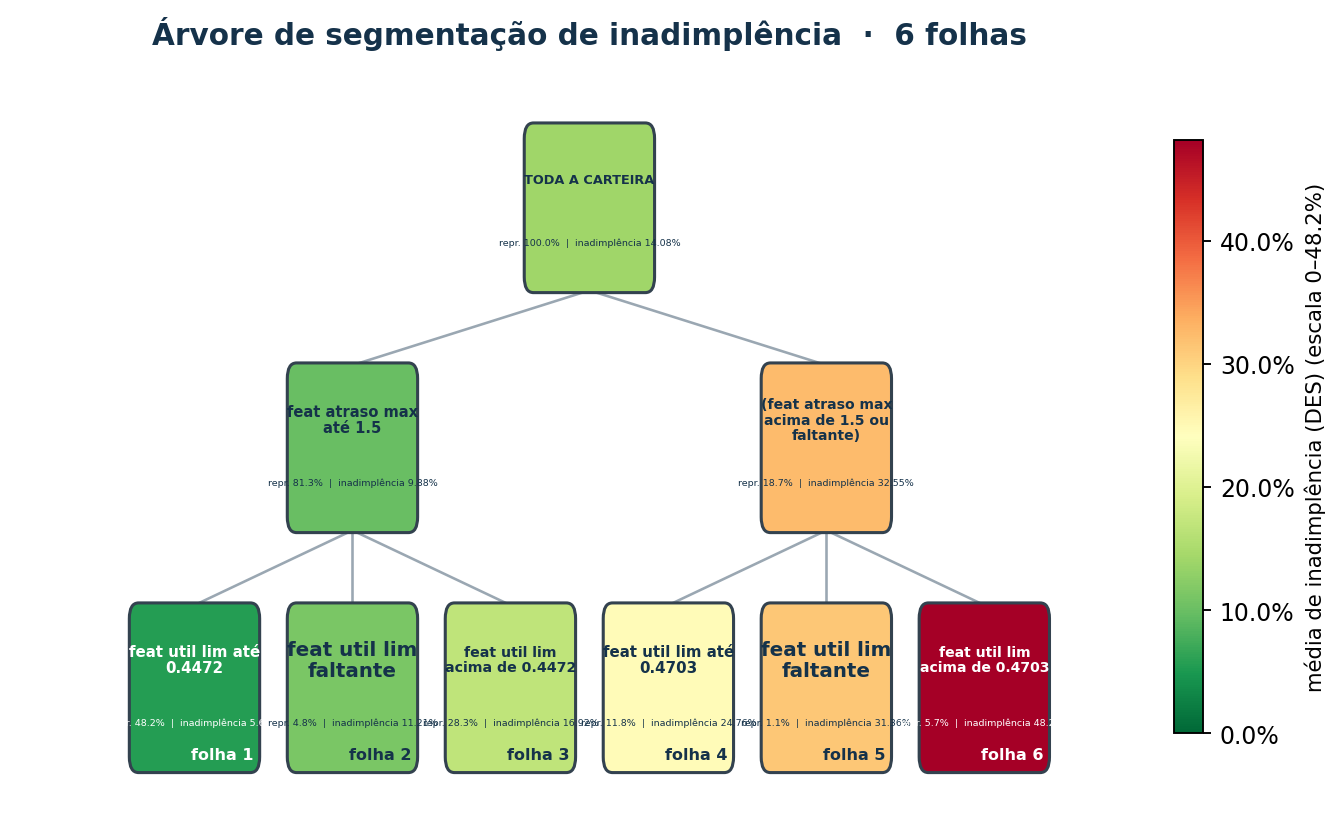
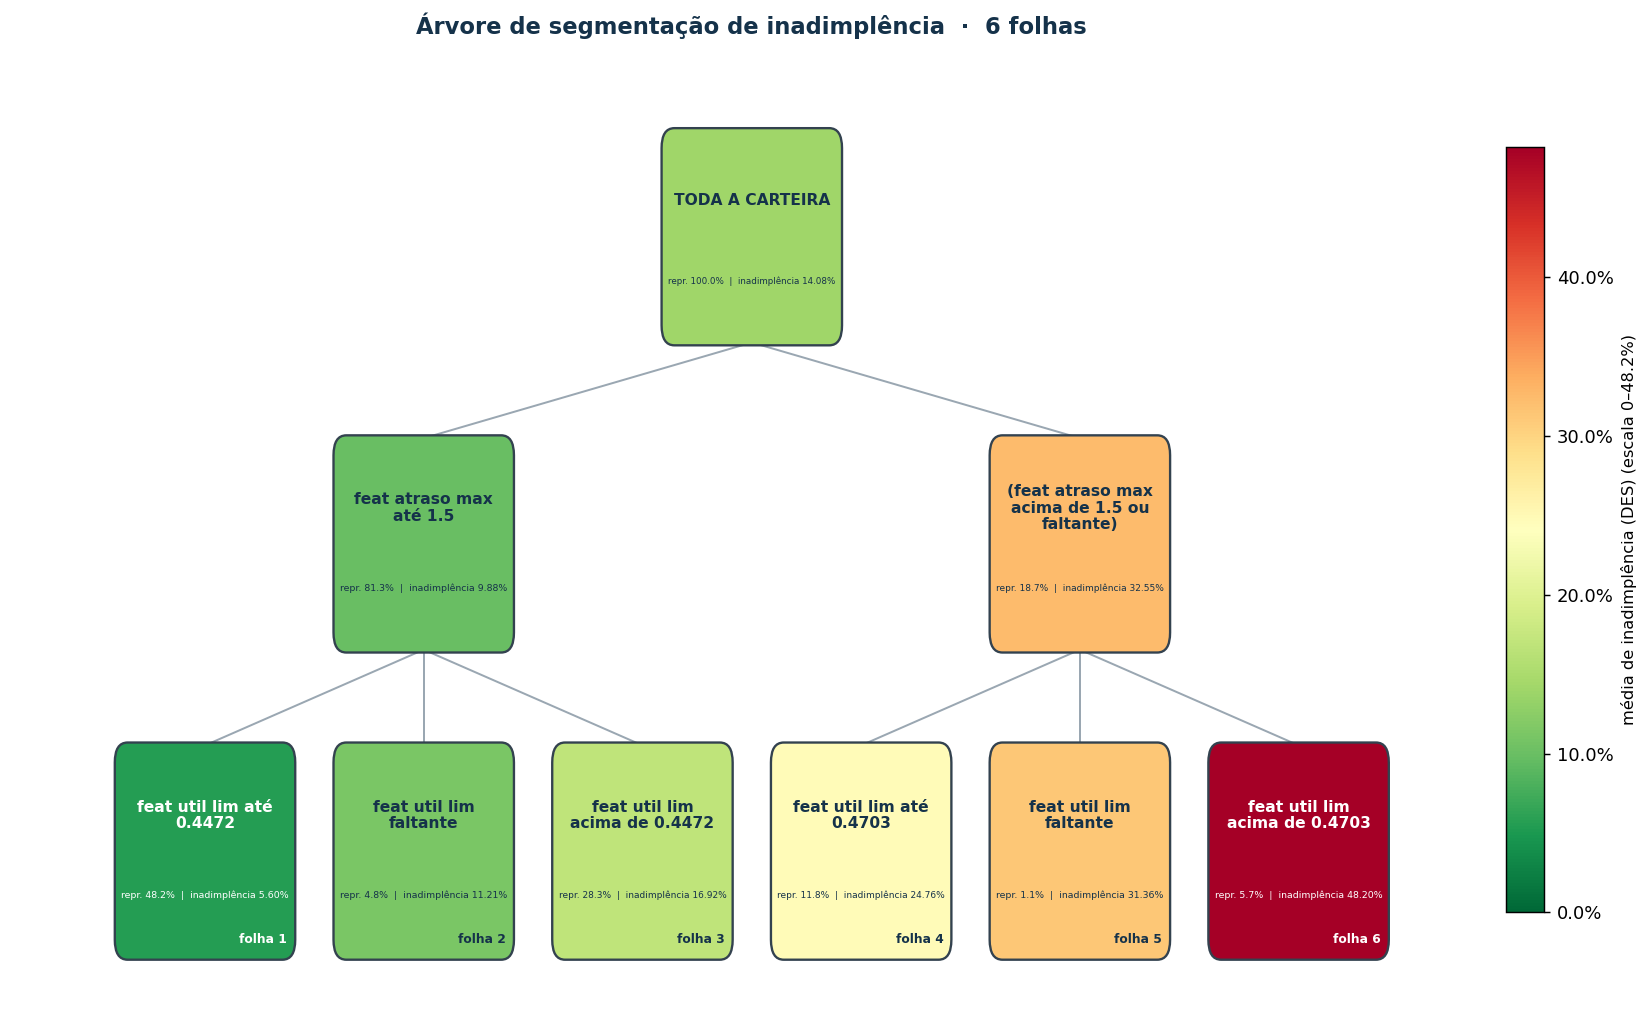
fix: texto da árvore dentro da caixa e beeswarm SHAP no Ramo 05
- g1-arvore.png: re-render em 12.8x8.0 (mantendo 16:10). O rótulo das folhas
  tem tamanho fixo em pontos, então figura pequena fazia o texto estourar a
  caixa do nó; com a figura maior o texto cabe.
- Ramo 05: troca as barras de importância por um beeswarm SHAP de verdade,
  que mostra direção e magnitude do efeito por contrato.

diff --git a/index.html b/index.html
@@ -396,18 +396,15 @@
           <div class="mod__api"><code>tune_optuna</code><code>set_model</code><code>report_pdf</code><code>ALGORITHMS</code></div>
         </div>
         <div class="mock">
-          <div class="mock__bar"><span class="dot" style="color:var(--accent)"></span> importância |SHAP| · lightgbm</div>
-          <div class="mock__body">
-            <div class="bars">
-              <div class="bar"><span>util_lim</span><span class="bar__t"><span class="bar__f" style="width:100%"></span></span><span>29.8%</span></div>
-              <div class="bar"><span>renda</span><span class="bar__t"><span class="bar__f" style="width:88%"></span></span><span>26.3%</span></div>
-              <div class="bar"><span>atraso_max</span><span class="bar__t"><span class="bar__f" style="width:77%"></span></span><span>22.9%</span></div>
-              <div class="bar"><span>tempo_rel</span><span class="bar__t"><span class="bar__f" style="width:57%"></span></span><span>17.0%</span></div>
-              <div class="bar"><span>n_produtos</span><span class="bar__t"><span class="bar__f" style="width:13%"></span></span><span>4.0%</span></div>
-            </div>
-            <div style="margin-top:13px" class="c">
-              optuna · trial 40/40 <span class="s">✓</span>  best AUC(OOT) = <span class="s">0.8079</span>
-            </div>
+          <div class="mock__bar"><span class="dot" style="color:var(--accent)"></span> beeswarm SHAP · lightgbm · AUC(OOT) 0,808</div>
+          <a href="assets/img/shap-beeswarm.png" target="_blank" rel="noopener">
+            <img src="assets/img/shap-beeswarm.png" alt="Beeswarm SHAP do modelo LightGBM: cada ponto é um contrato, a posição no eixo x é a contribuição da variável para o escore e a cor é o valor da variável. feat_util_lim alta empurra o risco para cima; feat_renda alta empurra para baixo." style="width:100%;background:#fff" loading="lazy">
+          </a>
+          <div class="mock__body" style="border-top:1px solid var(--line)">
+            <span class="c">
+              Um ponto por contrato. À direita, empurra o escore para cima;
+              <span class="k">util_lim</span> alta agrava, <span class="k">renda</span> alta protege.
+            </span>
           </div>
         </div>
       </article>
